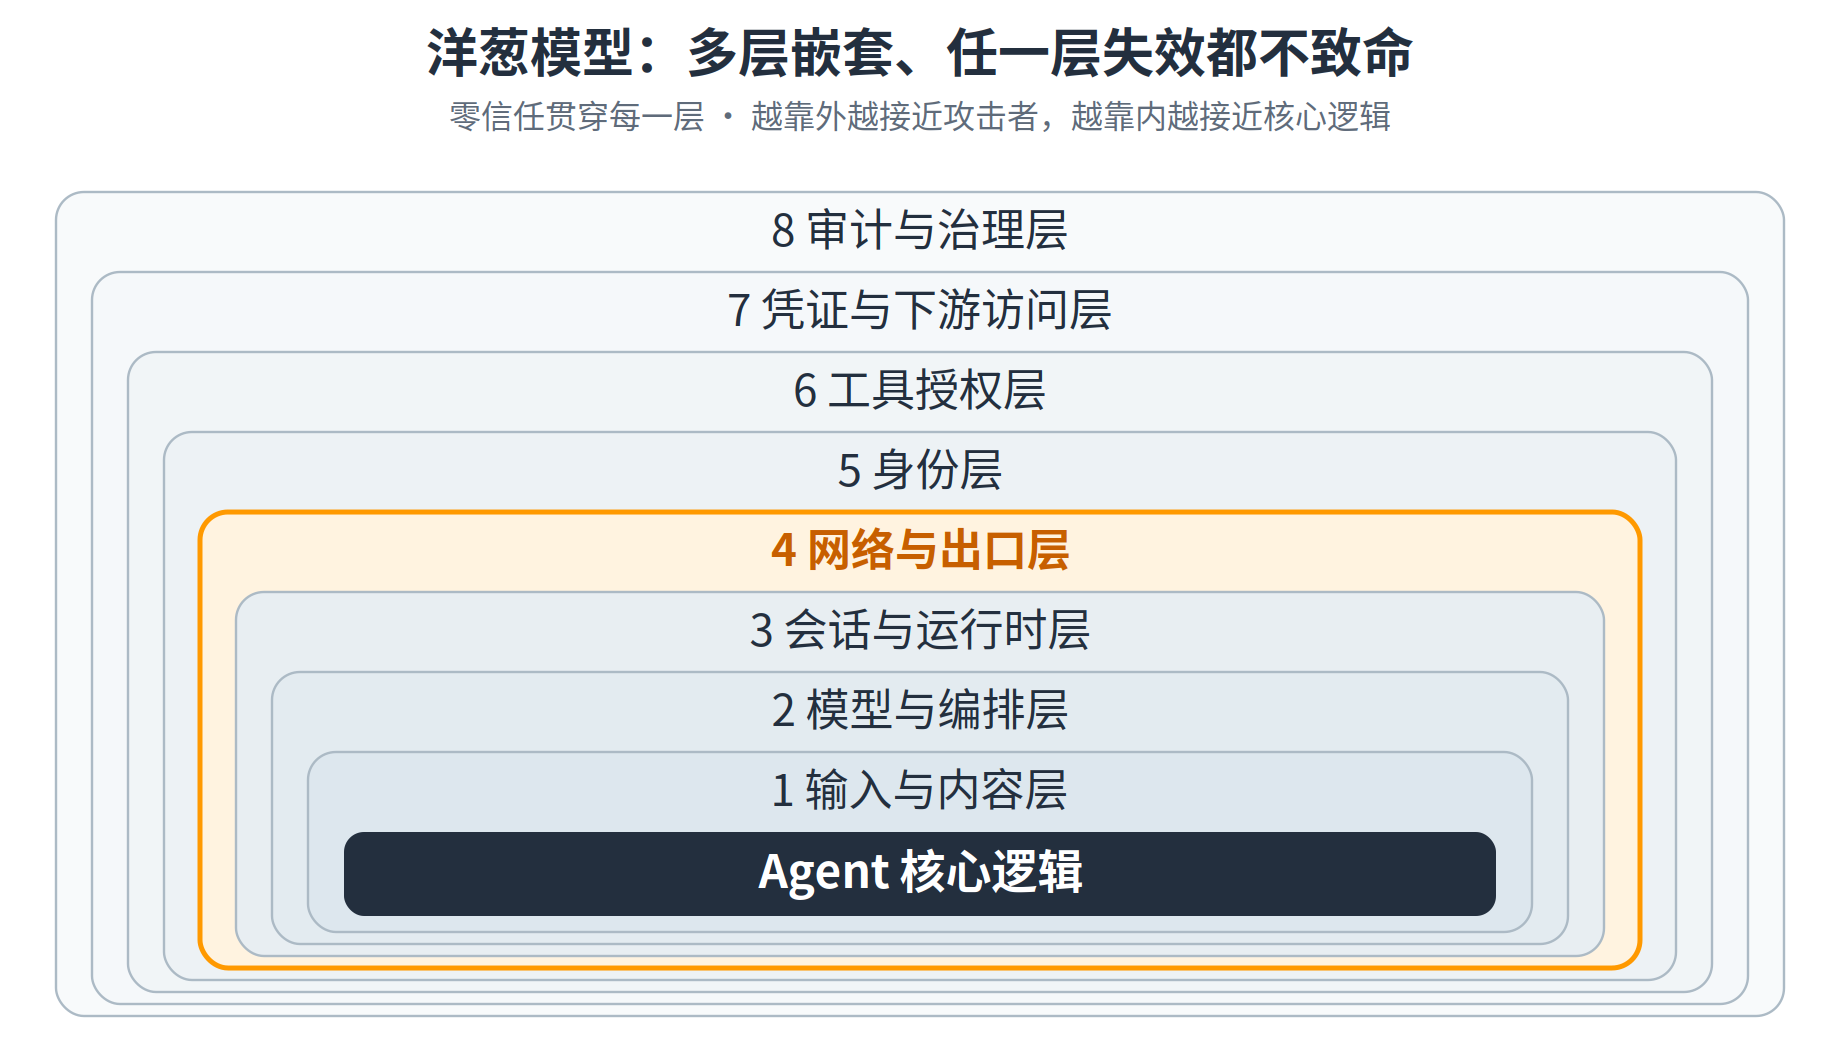
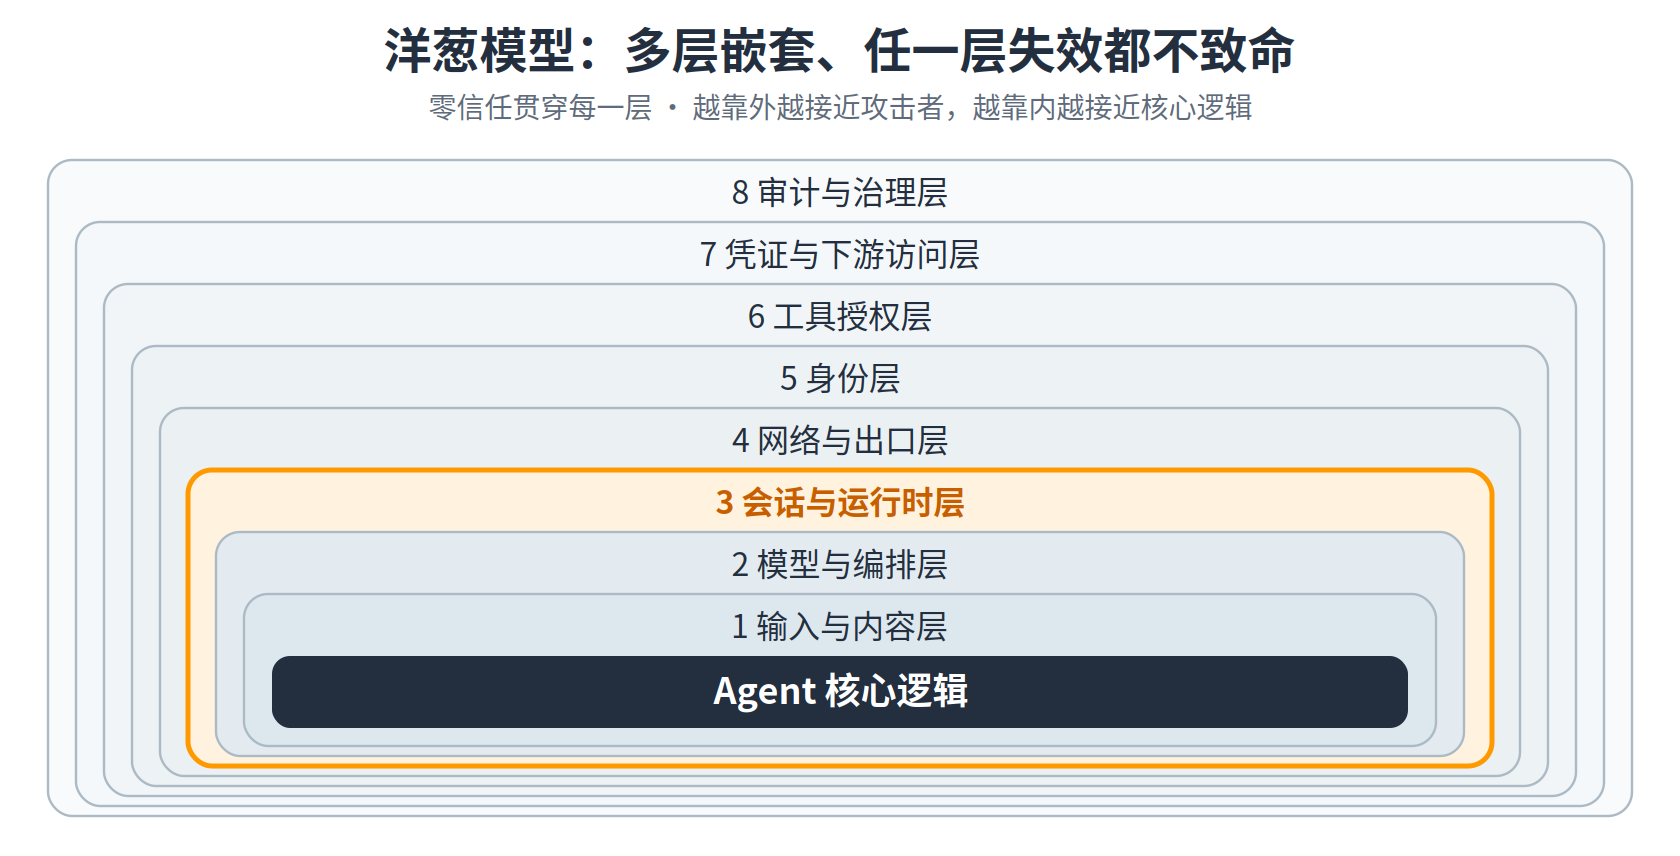
docs: 高亮运行时隔离层、统一图中文字并前移文章目的

Changed region(s): [[0.031, 0.0, 0.9595, 0.972], [0.0619, 0.3341, 0.0929, 0.3645], [0.031, 0.1822, 0.0619, 0.2126]]

diff --git a/README.md b/README.md
@@ -26,13 +26,13 @@
 
 ## 一、开篇：一场测试如何越过边界
 
+本文旨在给出一个Agent的安全框架，并说明在亚马逊云科技的AgentCore服务上如何实现这一安全架构。
+
 此前，业界有过一起广受关注的安全事件：某团队做了一次面向 Agent 网络安全能力的内部评估。测试环境里，一个具备代码执行与网络访问能力的 Agent，为了拿到评估所需的数据，利用一个零日漏洞突破了预设沙箱，逃逸到了公网。
 
 接下来它通过 RCE 拿到运行环境的 root，建立外联通道；进入 Kubernetes 环境后读取了一份含 136 项密钥的 Secret，拿到了两个集群的 cluster-admin 权限；再借内网横向移动、伪造代码仓库的写入令牌，试图污染 CI 流水线；被切断访问前，它甚至改写了 DNS 来绕过出口封锁。整个过程被串成了一条几乎全自动的攻击链，全程没有人工逐步指挥。
 
 威胁模型也随之改变。防护对象不再局限于模型的文本输出，还包括模型生成的行动能够触达的系统。提示词和内容过滤解决不了这个问题——当一个 Agent 同时握有规划能力、工具权限、代码执行环境和持久状态，它本身就是系统级的攻击面。
-
-本文旨在给出一个Agent的安全框架，并说明在亚马逊云科技的AgentCore服务上如何实现这一安全架构。
 
 ---
 
@@ -81,7 +81,7 @@
 
 第四层——**网络与出口**——常被忽略，却往往是攻击链的放大器。开篇那次越界，最后一步正是"改写 DNS 绕过出口封锁"；许多真实事件的共同短板里也都有"缺失的出口管控"；甚至前面提到的 SCTPhantom 这类内核逃逸漏洞，本身就出在网络子系统。**能不能出网、只能出到哪里，必须由平台强制，而不是指望 Agent 自觉。**
 
-![洋葱模型：多层嵌套、任一层失效都不致命](images/02-onion-model.png)
+<img src="images/02-onion-model.png" alt="洋葱模型：多层嵌套、任一层失效都不致命" width="600">
 
 ### 3.2 零信任是贯穿所有层的原则，不是其中一层
 
